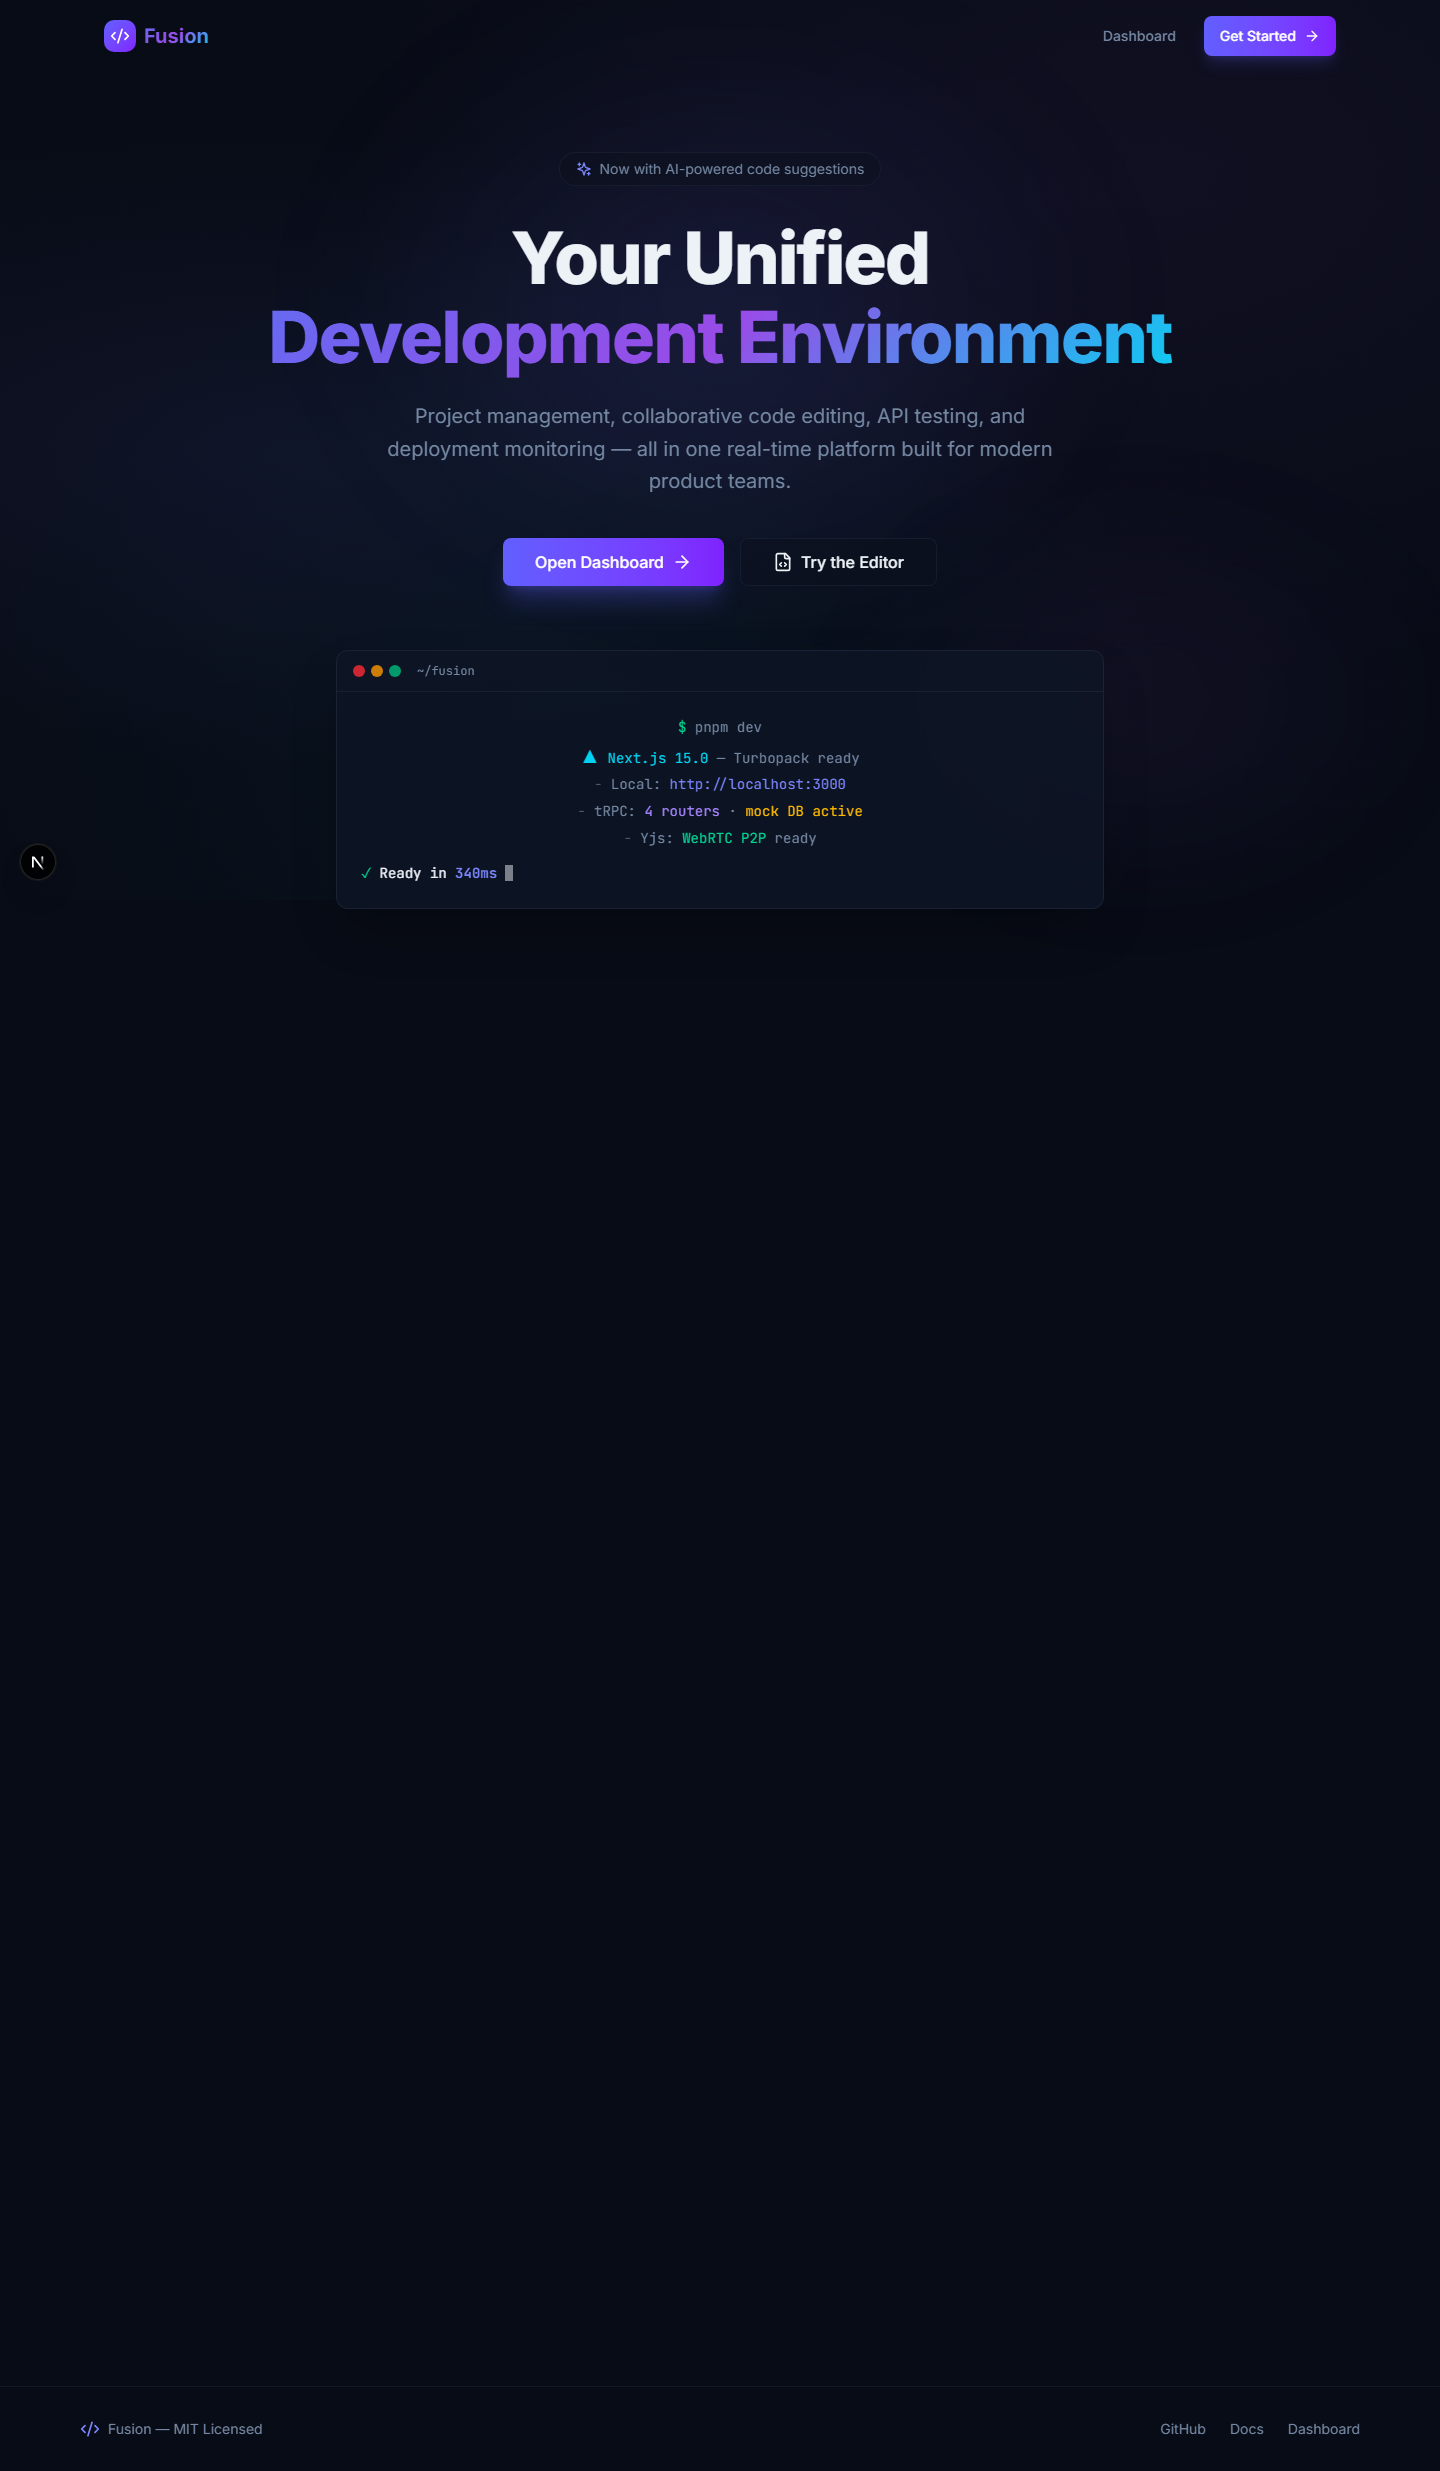
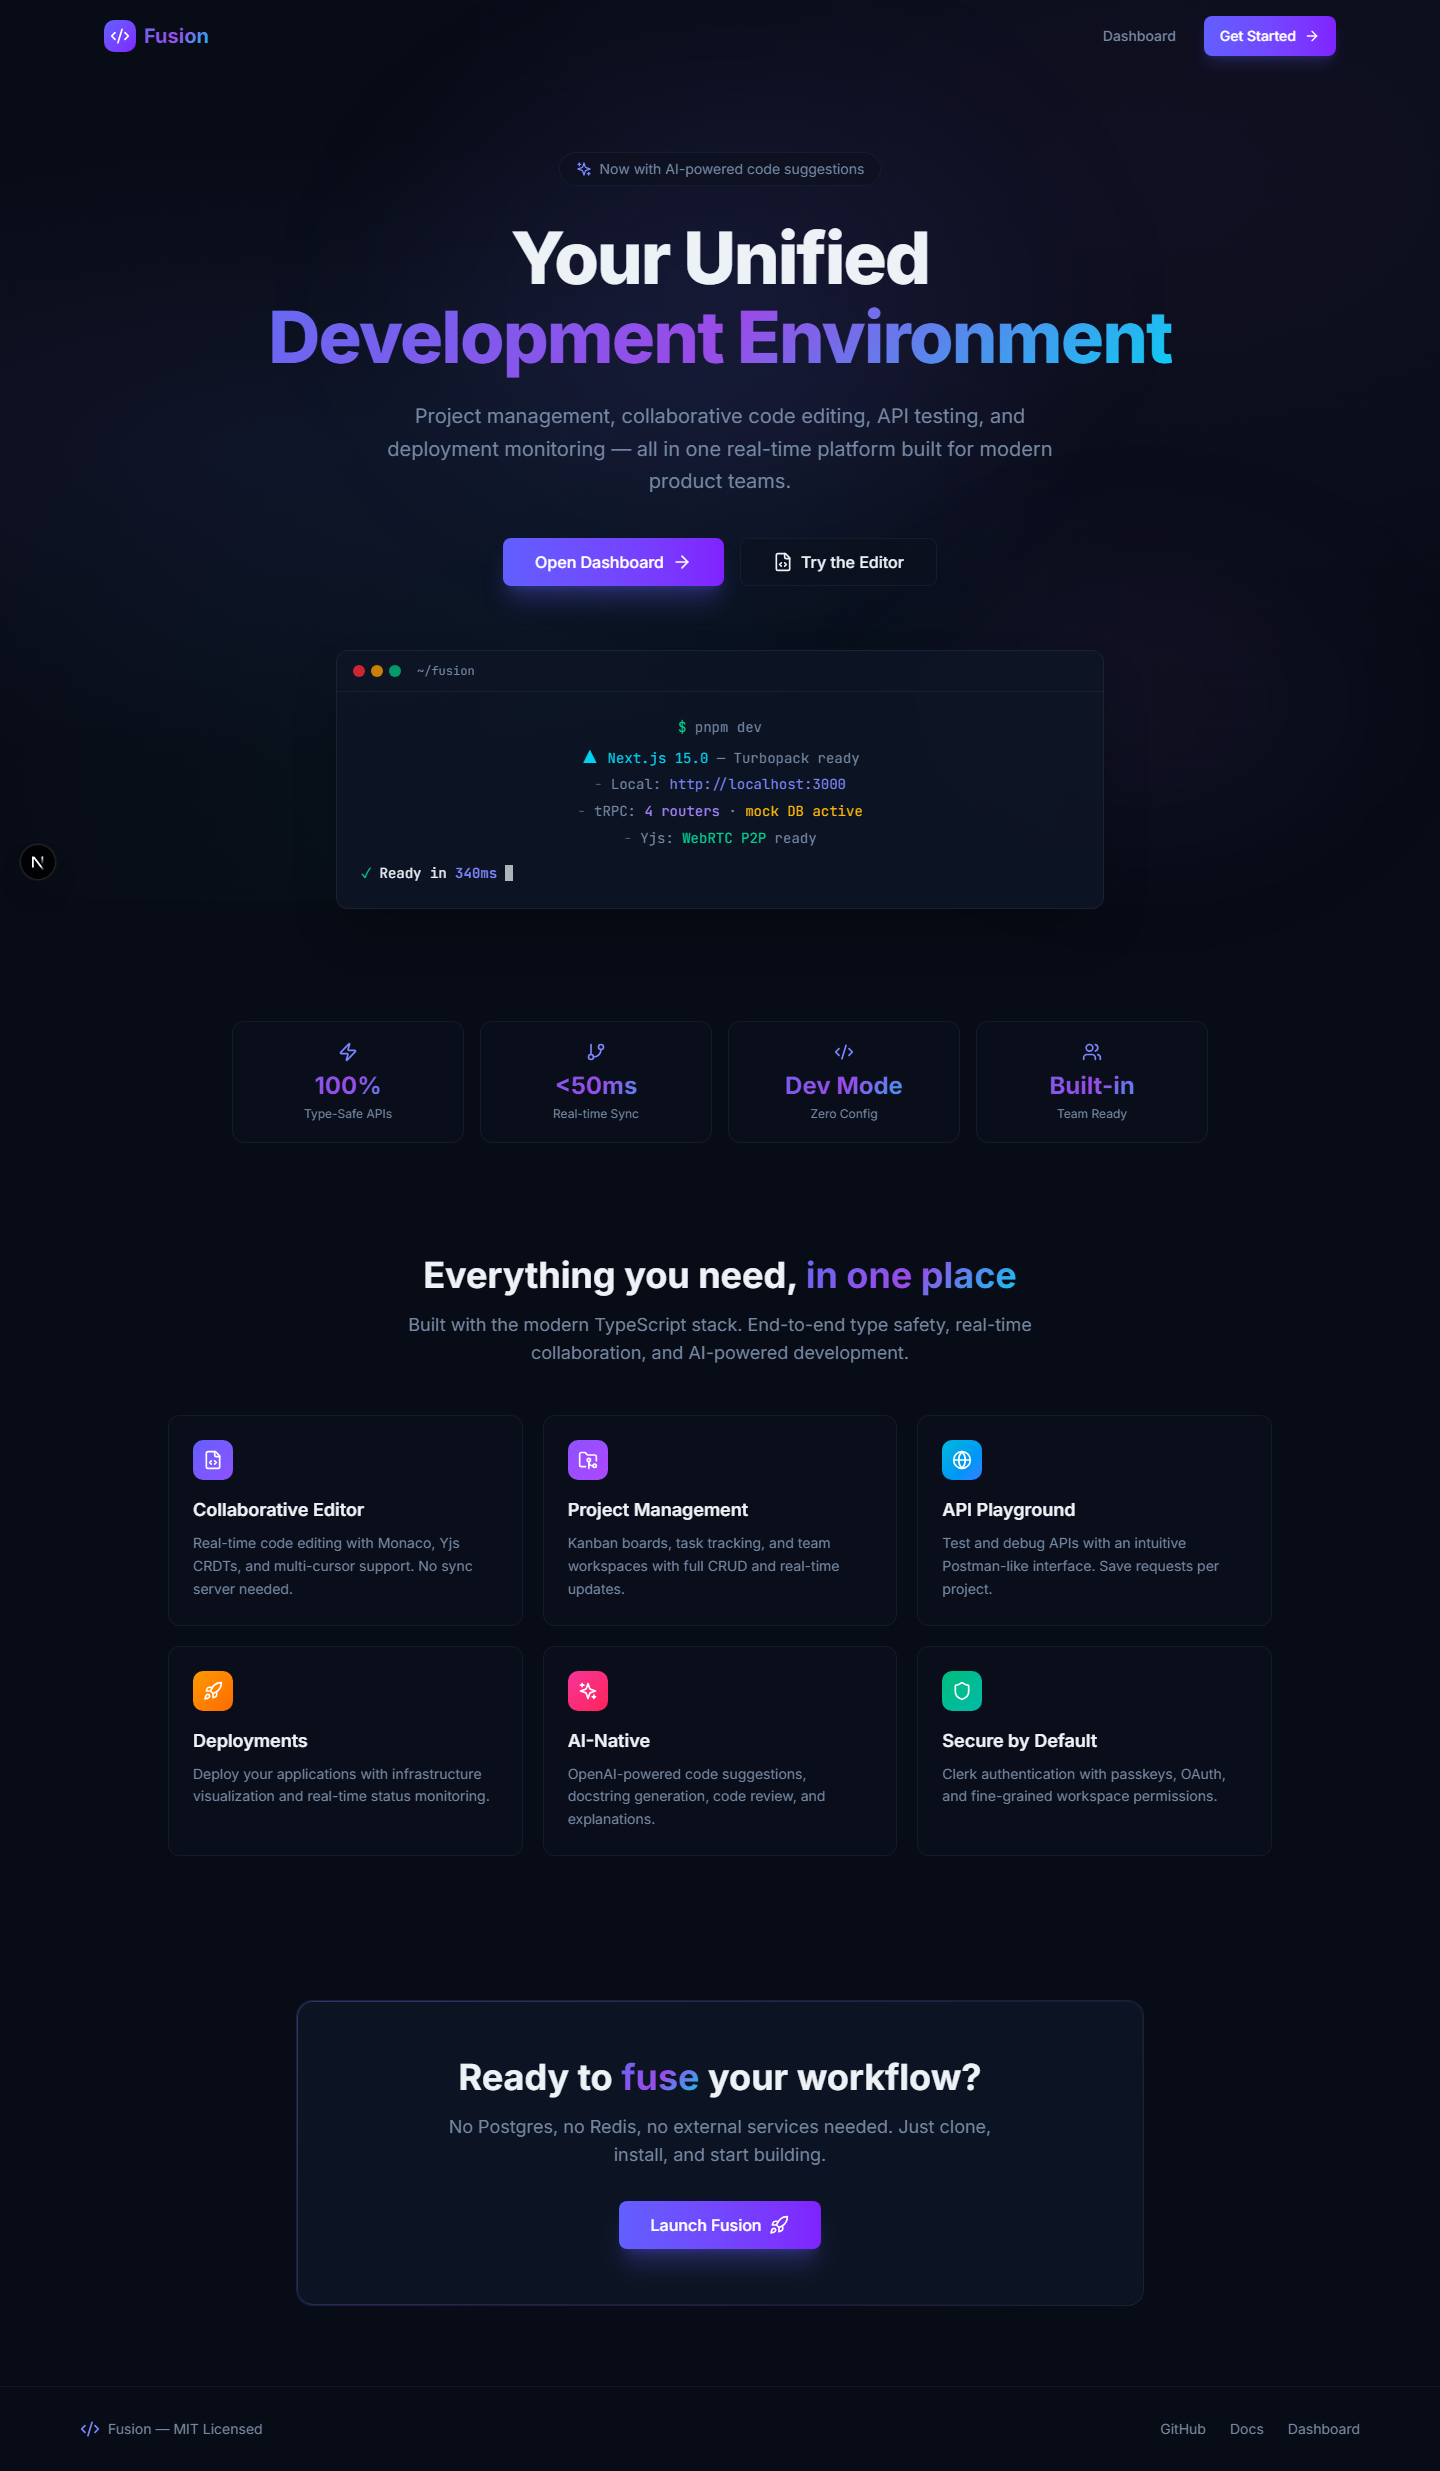
docs: resolve empty space in landing page screenshot by triggering scroll animations

diff --git a/scripts/capture_screenshots.py b/scripts/capture_screenshots.py
@@ -38,6 +38,13 @@ with sync_playwright() as p:
             wait_time = 10000 if slug == "01-home" else 3000
             page.wait_for_timeout(wait_time)
             
+            # Scroll down and up to trigger scroll animations (framer-motion whileInView)
+            if slug == "01-home":
+                page.evaluate("window.scrollTo(0, document.body.scrollHeight)")
+                page.wait_for_timeout(1500)
+                page.evaluate("window.scrollTo(0, 0)")
+                page.wait_for_timeout(1000)
+            
             out_path = os.path.join(OUT, f"{slug}.png")
             page.screenshot(path=out_path, full_page=True)
             size = os.path.getsize(out_path)